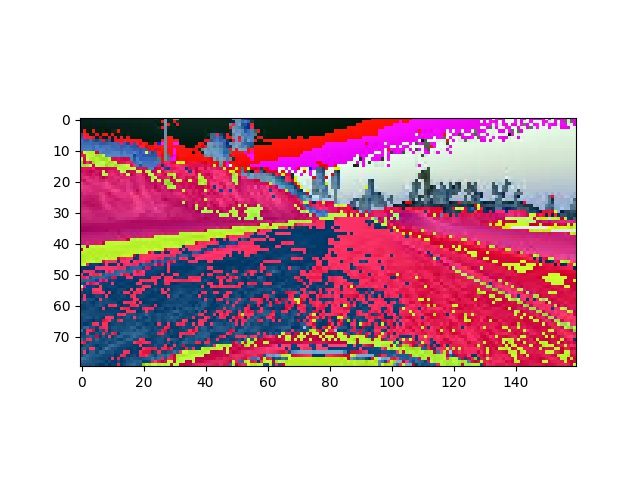
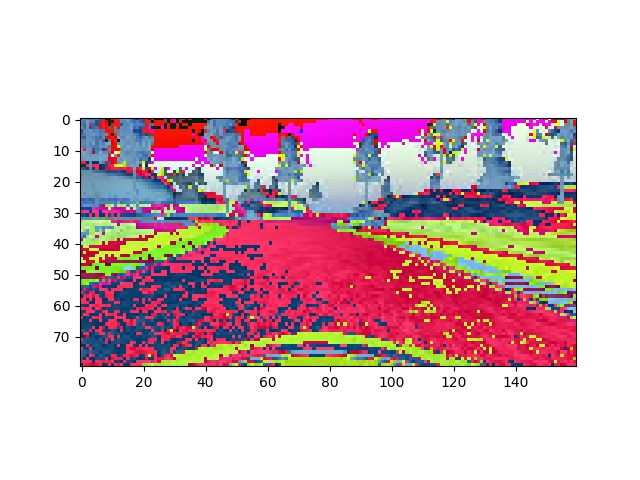
update transfer learning model

diff --git a/transfer_learning_model.py b/transfer_learning_model.py
@@ -3,7 +3,7 @@ import numpy as np
 import tensorflow as tf
 # TODO: import Keras layers you need here
 from keras.models import Sequential,Model
-from keras.layers import Dense,Activation,Flatten,Input
+from keras.layers import Dense,Activation,Flatten,Input,Lambda
 from keras.applications.vgg16 import VGG16
 import pandas as pd
 import os
@@ -21,7 +21,7 @@ sample_folder = './sample behavioral cloning data/'
 
 ch, row, col = 3, 160, 320  # Trimmed image format
 
-p_ch, p_row, p_col = 3, 80, 160
+p_ch, p_row, p_col = 3, 160, 320
 img_placeholder = tf.placeholder("uint8", (None, 160, 320, 3))
 
 resize_op = tf.image.resize_images(img_placeholder, (p_row, p_col), method=0)
@@ -55,12 +55,8 @@ def generator(sess, samples, batch_size=32):
 
             # trim image to only see section with road
             X_train = np.array(images)
-            X_train=sess.run(resize_op,feed_dict={img_placeholder:X_train})
-            y_train=samples.iloc[offset:min(offset + batch_size,num_samples), 3]
-            X_train = preprocess_input(X_train.astype('float64'))
 
-            plt.imshow(X_train[0])
-            plt.savefig("test2.jpg")
+            y_train=samples.iloc[offset:min(offset + batch_size,num_samples), 3]
 
             yield X_train,y_train
 
@@ -98,6 +94,14 @@ def y_to_label(y_data):
 
     return new_y
 
+def resize_image(input_image):
+
+    #input_x = sess.run(resize_op, feed_dict={img_placeholder: input_image})
+    resized_img=tf.image.resize_images(input_image, (p_row, p_col), method=0)
+
+    return resized_img
+
+
 
 def main(_):
     # load bottleneck data
@@ -106,6 +110,7 @@ def main(_):
     train_samples, validation_samples = load_samples_df(test_size=0.2)
 
     batch_size=128
+    small_batch_size=12
     with tf.Session() as sess:
         K.set_session(sess)
         K.set_learning_phase(1)
@@ -114,19 +119,31 @@ def main(_):
         train_generator = generator(sess, train_samples, batch_size=batch_size)
         validation_generator = generator(sess, validation_samples, batch_size=batch_size)
 
-        pre_trained_model = VGG16(input_tensor=Input(shape=(p_row, p_col, ch)), include_top=False)
+        preprocess=Sequential()
+        #preprocess.add(Input(shape=(p_row, p_col, ch)))
+        #preprocess.add(Lambda(resize_image,input_shape=(p_row, p_col, ch)))
+        preprocess.add(Lambda(lambda x:x/255.0-0.5,input_shape=(row, col, ch)))
+
+        pre_trained_model = VGG16(input_tensor=preprocess.output, include_top=False)
+        #pre_trained_model = VGG16(input_tensor=Input(shape=(row, col, ch)), include_top=False)
         x = pre_trained_model.output
         x=Flatten()(x)
         x=Dense(100)(x)
         x=Dense(100)(x)
         x=Dense(1)(x)
-        model = Model(pre_trained_model.input, x)
+        #model = Model(pre_trained_model.input, x)
+        model = Model(preprocess.input, x)
 
         for layer in pre_trained_model.layers:
             layer.trainable = False
 
+        for layer in preprocess.layers:
+            layer.trainable = False
+
         model.compile(optimizer='adam',loss='mse')
-        model.fit_generator(train_generator,train_samples.shape[0],nb_epoch=10)
+        hist=model.fit_generator(train_generator,train_samples.shape[0],nb_epoch=10)
+        #hist=model.fit_generator(train_generator,small_batch_size*1,nb_epoch=1)
+        #pickle.dump(hist,open('hist.p','wb'))
         model.save("test_model.h5")
 
 
